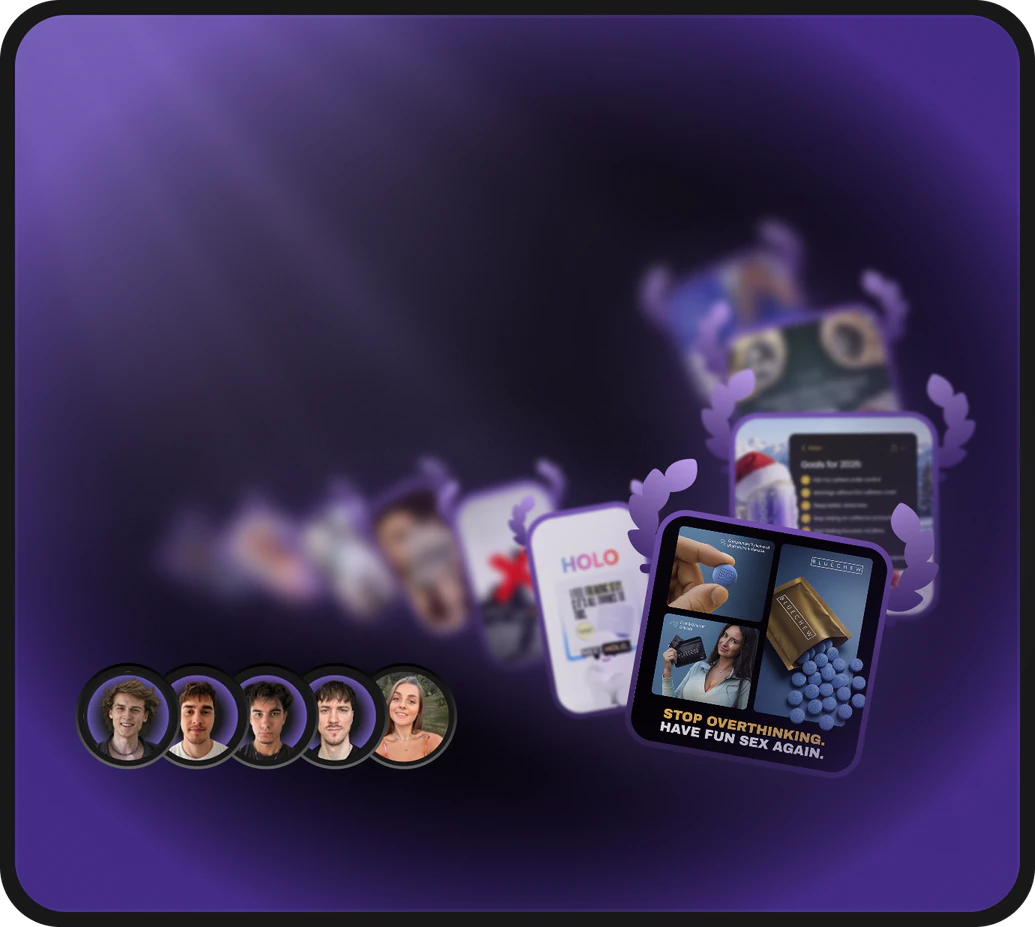
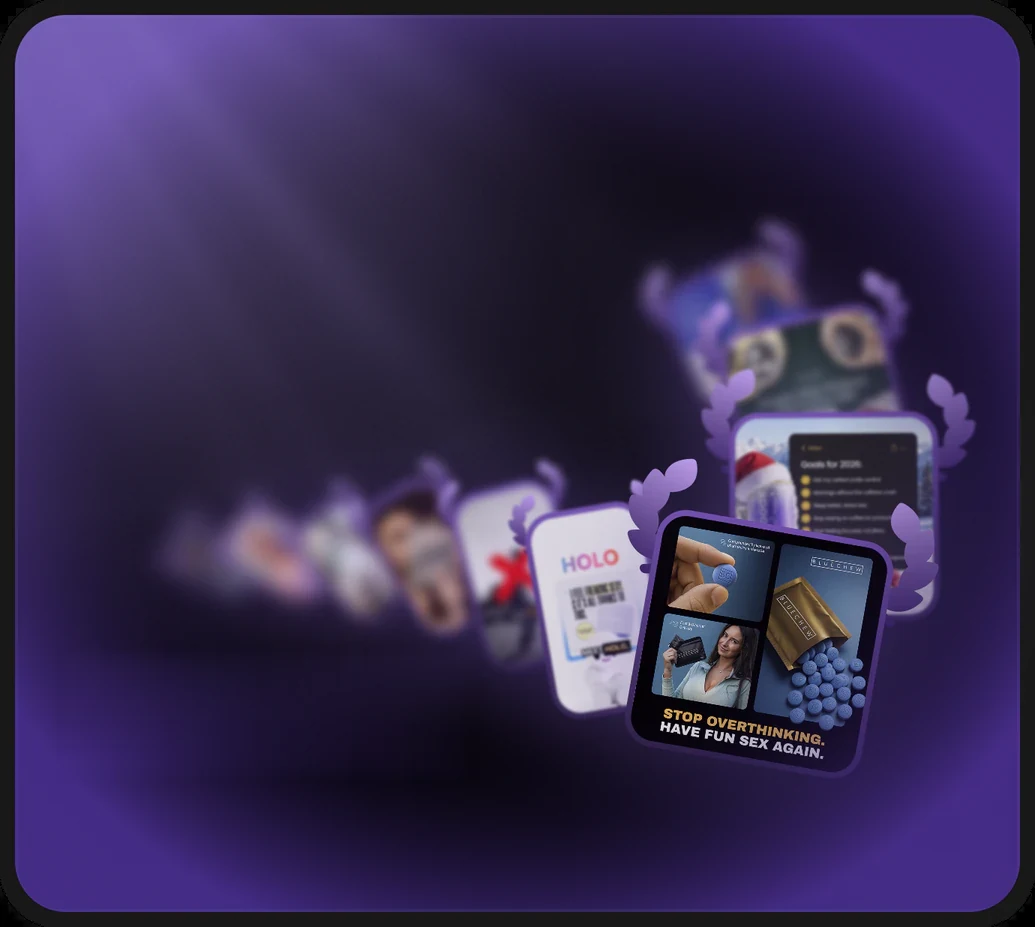
Ready To Scale is one to one again, and the case-studies Buy goes to /templates with the sheet open and warm (#55)
Žilvinas (2026-10-17), four notes on /case-studies' last section:

- "icons now are stretched": the three feature icons were drawn at 110% of
  a 16-square (phone) or 25-tall (desktop) box with preserveAspectRatio
  "none", so a 17 x 15 headset was pulled square. Each icon now has the
  frame's own box per breakpoint (16/16, 17/15, 15/15 on the phone; 25/25,
  28/25, 25/25 on the desktop), the SVGs keep their proportions, and the
  text sits in one column (+49 / +78) as the frame has it.
- "the design was changed a bit": the five team faces are live now — rings
  of 44.707 x 44.545 (phone 27.009) with the file's 1px #222222 inside
  stroke, the frame's own uneven pitches, the leftmost ring on top, the
  photos the frame's own 100px fills. They were baked into the card's
  artwork at 60 on a 39 pitch; that row is painted out of both artworks.
- "this green small dot should be pulsing… maybe a little bit smaller": 13
  for the frame's 15 (phone 9 for 10), breathing, with a ring that leaves it
  every 1.8s (.live-dot). Transform and opacity only; still under reduced
  motion.
- "in case studies buy button should redirect to templates with the buy
  popup open… the checkout is not instant": the card's Buy Now no longer
  carries data-plan, so it always leaves for /templates#buy instead of
  opening in place when hydrated and leaving when not ("sometimes
  redirects"). And someone arriving at #buy has asked to buy, so PlanSheet
[…]

diff --git a/src/components/case-studies/CaseStudySections.tsx b/src/components/case-studies/CaseStudySections.tsx
@@ -415,12 +415,15 @@ export function ReadyToScale() {
       </h2>
 
       <div className="cs-scale-pair mt-[21px] flex flex-col items-center gap-[15px] md:mt-[2.40625rem] md:flex-row md:justify-center md:gap-[1.625rem]">
-        {/* 500+ templates → the Pick-your-plan sheet, in place (Žilvinas
-            2026-10-04: "buy now should lead to the same popup as in
-            templates"). data-plan is what PlanSheet listens for — the page
-            mounts it. The href is where a modified click or a browser
-            without JavaScript goes: /templates#buy, which opens the same
-            sheet on arrival. It went to the webapp before. */}
+        {/* 500+ templates → /templates with the Pick-your-plan sheet open
+            on arrival (Žilvinas 2026-10-17: "in case studies buy button
+            should redirect to templates with the buy popup open"). NOT
+            data-plan: with it the sheet opened here when the page had
+            hydrated and the link was followed when it had not, so the same
+            button did two different things ("sometimes redirects"). One
+            path now, and PlanSheet warms Stripe the moment it sees #buy, so
+            Buy is instant there too. It opened in place 2026-10-04 to
+            2026-10-17, and went to the webapp before that. */}
         <article className={CARD}>
           <Img
             src="case-studies/scale-templates.webp"
@@ -435,7 +438,6 @@ export function ReadyToScale() {
           </h3>
           <a
             href="/templates#buy"
-            data-plan
             // white fill / black label  ->  black fill / white label
             className={`${CARD_BUTTON} top-[calc(var(--cu)*106)] w-[calc(var(--cu)*147)] md:left-[2.75rem] bg-[linear-gradient(#fff,#fff)] text-black hover:bg-[linear-gradient(#000,#000)] hover:text-white active:bg-[linear-gradient(#000,#000)] active:text-white md:w-[12.75rem]`}
           >
@@ -455,21 +457,40 @@ export function ReadyToScale() {
             {templates.items.map((item) => (
               <li
                 key={item.label}
-                className="flex h-[calc(var(--cu)*16)] items-center gap-[calc(var(--cu)*8)] text-[length:calc(var(--cu)*16)] font-normal leading-none text-white md:h-[1.5625rem] md:gap-[var(--gap)] md:text-[1.25rem]"
-                style={{ "--w": r(item.w), "--gap": r(item.gap) } as CSSProperties}
+                // The text sits in one column on every row — Figma's +49 on
+                // the phone, +78 on the desktop — so the icon lives in a slot
+                // of that width (24 / 34) and its own box inside it, at the
+                // slot's left edge. Each icon's box is Figma's for THAT
+                // breakpoint: the phone draws the headset 17 x 15, not 16
+                // square, and the tools 15.
+                className="flex h-[calc(var(--cu)*16)] items-center text-[length:calc(var(--cu)*16)] font-normal leading-none text-white md:h-[1.5625rem] md:text-[1.25rem]"
+                style={
+                  {
+                    "--pw": `calc(var(--cu) * ${item.phone[0]})`,
+                    "--ph": `calc(var(--cu) * ${item.phone[1]})`,
+                    "--dw": r(item.desktop[0]),
+                    "--dh": r(item.desktop[1]),
+                  } as CSSProperties
+                }
               >
-                {/* The svg is drawn to the outside of its stroke, a twentieth
-                    wider than the box Figma reports for it — hence the
-                    negative margin: the BOX is what the layout uses. */}
-                <span className="grid h-[calc(var(--cu)*16)] w-[calc(var(--cu)*16)] shrink-0 place-items-center md:h-[1.5625rem] md:w-[var(--w)]">
-                  <LazyImg
-                    src={`/images/case-studies/${item.icon}.svg`}
-                    alt=""
-                    width={28}
-                    height={28}
-                    ariaHidden
-                    className="h-[110%] w-[110%] max-w-none"
-                  />
+                <span className="flex w-[calc(var(--cu)*24)] shrink-0 items-center md:w-[2.125rem]">
+                  {/* The svg is drawn to the OUTSIDE of its 2.5 stroke, so
+                      the file is a tenth larger than the icon box Figma
+                      reports (27.5 for a 25 box) and is sized so — by its
+                      width only, and it keeps its own proportions: the
+                      files carried preserveAspectRatio="none" and were
+                      being pulled to a box of another shape (Žilvinas
+                      2026-10-17, "icons now are stretched"). */}
+                  <span className="grid h-[var(--ph)] w-[var(--pw)] shrink-0 place-items-center md:h-[var(--dh)] md:w-[var(--dw)]">
+                    <LazyImg
+                      src={`/images/case-studies/${item.icon}.svg`}
+                      alt=""
+                      width={28}
+                      height={28}
+                      ariaHidden
+                      className="h-auto w-[110%] max-w-none"
+                    />
+                  </span>
                 </span>
                 {item.label}
               </li>
@@ -513,8 +534,51 @@ export function ReadyToScale() {
               tone="black"
             />
           </a>
+          {/* THE TEAM, five faces in dark rings, each ring a little over the
+              next (the leftmost on top), as the updated frame draws them
+              (Žilvinas 2026-10-17, "the design was changed a bit"): rings
+              of 44.707 x 44.545 (phone 27.009 x 26.937), the photo 38.32
+              (23.15) inside at 3.19 (1.93), and the frame's own uneven
+              pitches — Figma nodes 4814:83 and 4933:2340. The rings used to
+              be baked into the card's artwork at 60 (35) on a 39 (23) pitch;
+              they are live now, and the artwork has had that row painted
+              out. The ring is #181818 with the file's 1px #222222 inside
+              stroke. The photos are the frame's own 100px fills. Left edge
+              on the text column (+43 / +25); bottom edge where the old row's
+              was. */}
+          <ul
+            role="list"
+            aria-label="The Mushi team"
+            className="absolute left-[calc(var(--cu)*25)] top-[calc(var(--cu)*229)] h-[calc(var(--cu)*26.937)] w-[calc(var(--cu)*109.5)] md:left-[2.6875rem] md:top-[24.8rem] md:h-[2.784rem] md:w-[11.328rem]"
+          >
+            {agency.team.map((face, i) => (
+              <li
+                key={face.src}
+                // Both lefts come through variables: an inline `left` would
+                // win over the md: class at every width and stack the five
+                // on the phone's spot on the desktop.
+                className="absolute left-[calc(var(--cu)*var(--px))] top-0 grid size-[calc(var(--cu)*27.009)] place-items-center rounded-full bg-[#181818] shadow-[inset_0_0_0_calc(var(--cu)*1)_#222222] md:left-[var(--dx)] md:h-[2.784rem] md:w-[2.794rem] md:shadow-[inset_0_0_0_1px_#222222]"
+                style={{ zIndex: 5 - i, "--px": face.phoneX, "--dx": r(face.desktopX) } as CSSProperties}
+              >
+                <Img
+                  src={`case-studies/${face.src}`}
+                  alt={face.alt}
+                  className="size-[calc(var(--cu)*23.15)] rounded-full md:size-[2.395rem]"
+                />
+              </li>
+            ))}
+          </ul>
+          {/* The row keeps the frame's box (10 / 15 tall, text at +49 /
+              +78) while the dot inside it is a little smaller than the
+              frame draws — 9 / 13 for 10 / 15 (Žilvinas 2026-10-17, "maybe
+              a little bit smaller, just a little bit") — and PULSES like a
+              live indicator (same note: "this green small dot should be
+              pulsing"): .live-dot in globals.css, a ring breathing out of
+              it. Centred in the frame's box so the text does not move. */}
           <p className="absolute left-[calc(var(--cu)*25)] top-[calc(var(--cu)*269)] flex h-[calc(var(--cu)*10)] items-center gap-[calc(var(--cu)*8)] whitespace-nowrap text-[length:calc(var(--cu)*16)] font-normal leading-none text-white md:left-[2.6875rem] md:top-[28.8125rem] md:h-[0.9375rem] md:gap-[0.5625rem] md:text-[1.25rem]">
-            <span className="size-[calc(var(--cu)*10)] shrink-0 rounded-full bg-[#248a2d] md:size-[0.9375rem]" />
+            <span className="grid size-[calc(var(--cu)*10)] shrink-0 place-items-center md:size-[0.9375rem]">
+              <span aria-hidden="true" className="live-dot size-[calc(var(--cu)*9)] rounded-full bg-[#248a2d] md:size-[0.8125rem]" />
+            </span>
             {agency.status}
           </p>
         </article>

diff --git a/src/lib/content.ts b/src/lib/content.ts
@@ -1521,21 +1521,37 @@ export const CASE_STUDIES_PAGE = {
   },
   scale: {
     heading: "Ready To Scale?",
+    // (agency.team below: the five faces of the right card's row.)
     templates: {
       titleLines: ["500+ High-ROAS", "Static Templates"],
       cta: "Buy Now",
       // `w` is the icon's own width on desktop — the headset is 28 where the
       // other two are 25, and each label starts 9 (6 for the headset) past it.
       items: [
-        { icon: "icon-sparkles", label: "50+ new templates monthly", w: 25, gap: 9 },
-        { icon: "icon-headset", label: "24/7 customer support", w: 28, gap: 8 },
-        { icon: "icon-tools", label: "Editable in Canva", w: 25, gap: 8 },
+        // Each icon's box as the frames draw it, [w, h] — phone (nodes
+        // 4626:450 / 449 / 451) and desktop. The text column is fixed
+        // (+49 / +78), so there is no per-row gap any more.
+        { icon: "icon-sparkles", label: "50+ new templates monthly", phone: [16, 16], desktop: [25, 25] },
+        { icon: "icon-headset", label: "24/7 customer support", phone: [17, 15], desktop: [28, 25] },
+        { icon: "icon-tools", label: "Editable in Canva", phone: [15, 15], desktop: [25, 25] },
       ],
     },
     agency: {
       titleLines: ["Premium Static", "& Video Ads"],
       cta: "Book a Call",
       status: "Now Booking New Projects",
+      /**
+       * The row of faces, left to right, with each ring's left edge from the
+       * row's own left (Figma 4814:83 desktop / 4933:2340 phone — the
+       * pitches are the frame's, uneven on purpose).
+       */
+      team: [
+        { src: "team-1.webp", alt: "Mushi team member", phoneX: 0, desktopX: 0 },
+        { src: "team-2.webp", alt: "Mushi team member", phoneX: 21.49, desktopX: 35.58 },
+        { src: "team-3.webp", alt: "Mushi team member", phoneX: 43.99, desktopX: 72.82 },
+        { src: "team-4.webp", alt: "Mushi team member", phoneX: 61.49, desktopX: 101.78 },
+        { src: "team-5.webp", alt: "Mushi team member", phoneX: 82.49, desktopX: 136.54 },
+      ],
     },
   },
 } as const;

diff --git a/src/components/checkout/PlanSheet.tsx b/src/components/checkout/PlanSheet.tsx
@@ -599,6 +599,21 @@ export function PlanSheet() {
   // never over the veil; the gate's own 4s limit bounds the wait.
   useEffect(() => {
     if (window.location.hash !== BUY_HASH) return;
+    // SOMEONE ARRIVING AT #buy HAS ASKED TO BUY (CLAUDE.md: never prepare
+    // Stripe for someone who has not), so Stripe is woken NOW, with the
+    // page, not when the sheet has risen: the webapp, Stripe.js's bytes,
+    // the chosen plan's session and its step — what a mouse resting on a
+    // Buy button gets. Without it the step was built after the rise and
+    // Buy held for it (Žilvinas 2026-10-17, from /case-studies' Buy Now:
+    // "the checkout is not instant. it should be instant").
+    // On a timer rather than in the effect's own body, which may not set
+    // state (react-hooks/set-state-in-effect): hover() marks the sheet
+    // prepared.
+    const warm = window.setTimeout(() => {
+      wakeCheckout();
+      preloadStripe();
+      hover();
+    }, 0);
     const root = document.documentElement;
     let opened = false;
     const whenReady = () => {
@@ -619,6 +634,7 @@ export function PlanSheet() {
     // this effect's own body.
     const frame = requestAnimationFrame(whenReady);
     return () => {
+      window.clearTimeout(warm);
       seen.disconnect();
       cancelAnimationFrame(frame);
     };

diff --git a/src/app/globals.css b/src/app/globals.css
@@ -2517,6 +2517,40 @@ html[data-sheet] .tile-marquee-track {
   }
 }
 
+/* The "Now Booking" dot breathes like a live indicator (Žilvinas
+   2026-10-17): a ring of its own green leaves it every 1.8s and fades as it
+   grows, while the dot itself swells a touch. Compositor-only (transform and
+   opacity), and still for anyone who asked for less motion. */
+.live-dot {
+  position: relative;
+  animation: live-dot-breathe 1.8s ease-in-out infinite;
+}
+.live-dot::after {
+  content: "";
+  position: absolute;
+  inset: 0;
+  border-radius: inherit;
+  background: inherit;
+  animation: live-dot-ring 1.8s ease-out infinite;
+}
+@keyframes live-dot-breathe {
+  0%, 100% { transform: scale(1); }
+  50% { transform: scale(1.12); }
+}
+@keyframes live-dot-ring {
+  0% { transform: scale(1); opacity: 0.55; }
+  70%, 100% { transform: scale(2.4); opacity: 0; }
+}
+@media (prefers-reduced-motion: reduce) {
+  .live-dot,
+  .live-dot::after {
+    animation: none;
+  }
+  .live-dot::after {
+    display: none;
+  }
+}
+
 /* ----------------------------------------------- case study detail page --- */
 
 /* /case-studies/<slug>'s hero field: the frame's lit violet image and its dot

diff --git a/design/CASE-STUDIES.md b/design/CASE-STUDIES.md
@@ -217,12 +217,21 @@ rising from its bottom edge, around the artwork (r20 / r17).
 
 Desktop: title Poppins Medium 50/50 at +44, +59; button h 57 r30 at +44, +180
 (204 / 246 wide), label SemiBold 24, disc 45 inset 6; feature rows at +376,
-+416, +456 (icon 25, text Regular 20 at +78); avatars 60 at +380, pitch 39;
-dot 15 + text Regular 20 at +461.
++416, +456 (icon boxes 25 / 28 x 25 / 25, text Regular 20 at +78); the team
+row (2026-10-17, Figma `4814:83`): rings 44.707 x 44.545, photo 38.32 at
+3.19 in, left edges at +43 + 0 / 35.58 / 72.82 / 101.78 / 136.54, top +396.8
+(bottom on the old row's line; the leftmost ring on top), ring #181818 with
+a 1px #222222 inside stroke, photos the file's 100px fills (`team-*.webp`);
+dot 15 in the frame, drawn 13 and pulsing (`.live-dot`), text Regular 20 at
++461. Until 2026-10-17 the row was 60 at +380 on a 39 pitch, baked into the
+card artwork — that row has been painted out of `scale-agency*.webp`.
 
 Phone: title Medium 24/26 at +25, +35; button h 42 (147 / 178 wide), label
-SemiBold 18, disc 32; rows at +213, +239, +264 (text Regular 16 at +49);
-avatars 35, pitch 23, at +221; dot 10 + text 16 at +269.
+SemiBold 18, disc 32; rows at +213, +239, +264 (icon boxes 16 / 17 x 15 / 15
+— nodes `4626:450/449/451` — text Regular 16 at +49); team row (`4933:2340`)
+rings 27.009 x 26.937, photo 23.15 at 1.93 in, left edges at +25 + 0 / 21.49
+/ 43.99 / 61.49 / 82.49, top +229; dot 10 in the frame, drawn 9 and pulsing,
+text 16 at +269. (Was: avatars 35, pitch 23, at +221.)
 
 Feature rows: 50+ new templates monthly · 24/7 customer support · Editable in
 Canva.
